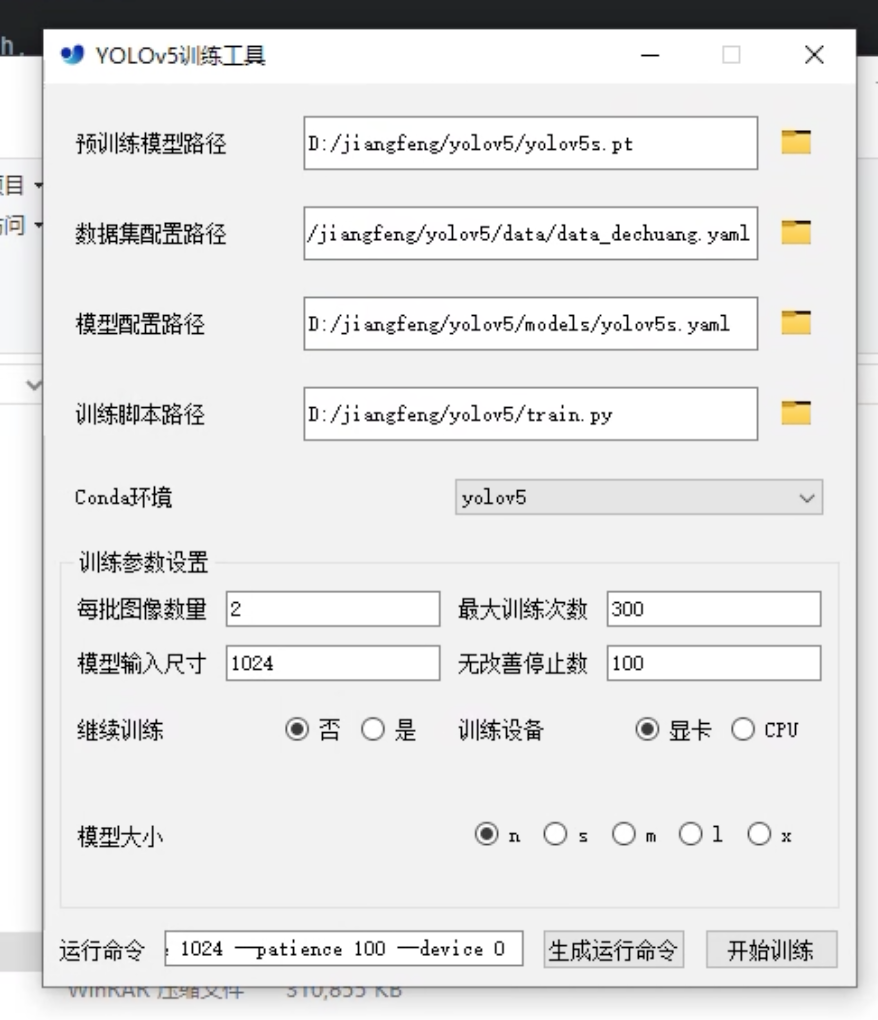
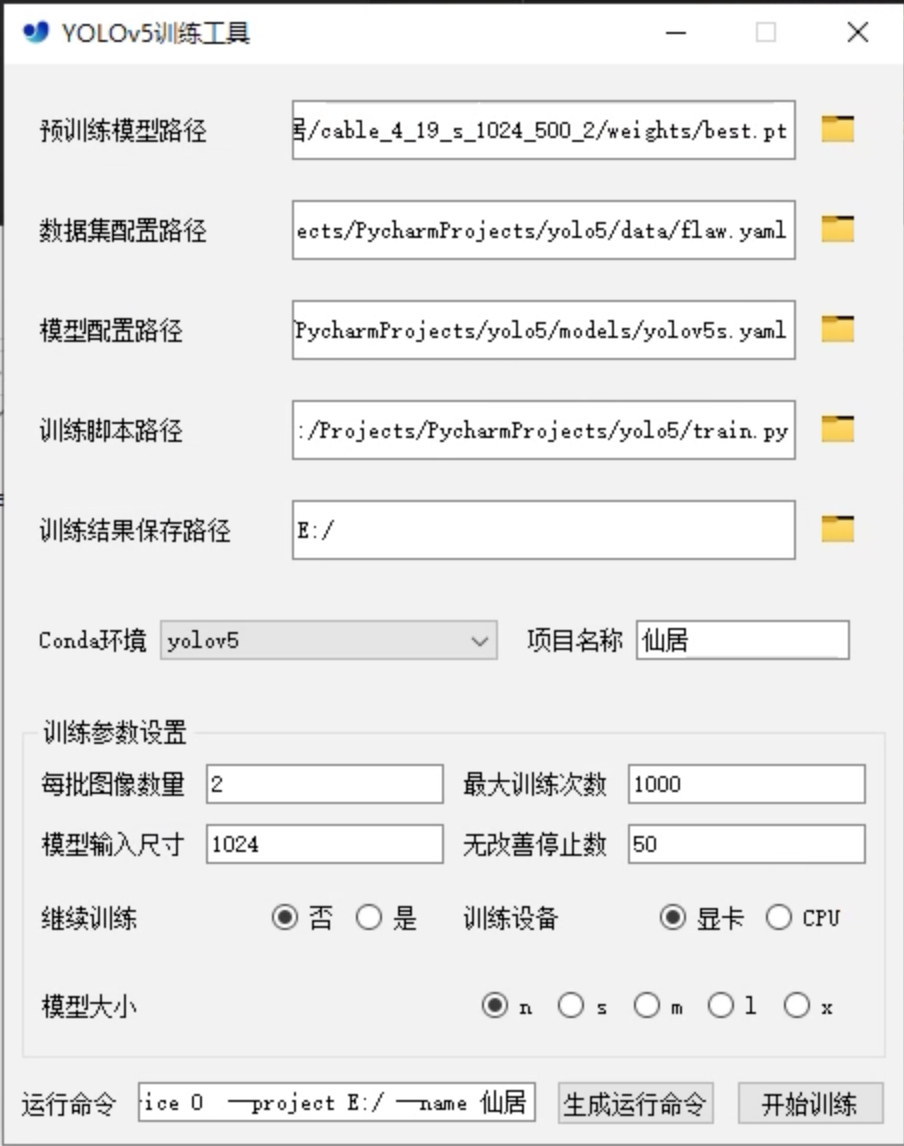
readme

diff --git a/main.py b/main.py
@@ -1,7 +1,7 @@
 from functools import lru_cache
 
 from PyQt5 import QtWidgets, QtGui
-from PyQt5.QtWidgets import QWidget, QLabel, QMainWindow, QHBoxLayout, QRadioButton, QComboBox
+from PyQt5.QtWidgets import QWidget, QLabel, QMainWindow, QHBoxLayout, QRadioButton, QComboBox, QLineEdit
 
 from libs.LineWidget import LineWidget
 from libs.model_size_selector import ModelSizeSelector
@@ -26,6 +26,7 @@ class MainWindow(QMainWindow):
                                           "YoloV5 Pretrained Model (%s)" % ' '.join(['*.pt']))
         self.train_py_line = LineWidget('训练脚本路径', self.settings.get('train_script_path'),
                                         "Python Script (%s)" % ' '.join(['*.py']))
+        self.save_dir_line = LineWidget('训练结果保存路径', self.settings.get('save_dir', os.path.expanduser('~')))
         # 创建一个横向布局，左边是文本，右边是一个下拉框，用于选择Conda环境
         self.conda_env_combobox = QComboBox(self)
         # 获取所有Conda环境
@@ -37,19 +38,47 @@ class MainWindow(QMainWindow):
         conda_env_hbox.addWidget(QLabel('Conda环境'))
         conda_env_hbox.addWidget(self.conda_env_combobox)
         self.conda_env_line = QWidget()
+        conda_env_hbox.setAlignment(QtCore.Qt.AlignLeft)
         self.conda_env_line.setLayout(conda_env_hbox)
+        
+        name_hbox = QHBoxLayout()
+        name_hbox.addWidget(QLabel('项目名称'))
+        self.name_line_edit = QLineEdit()
+        self.name_line = QWidget()
+        name_hbox.addWidget(self.name_line_edit)
+        self.name_line.setLayout(name_hbox)
+        self.name_line.setFixedHeight(40)
+       
+        conda_name_hbox = QHBoxLayout()
+        conda_env_hbox.addWidget(self.conda_env_line)
+        conda_env_hbox.addWidget(self.name_line)
+        conda_env_hbox.setAlignment(QtCore.Qt.AlignmentFlag.AlignTrailing)
+
+        self.name_line_edit.setText(self.settings.get('project_name', 'yolov5_project'))
+
+        self.conda_env_line.setFixedHeight(40)
+
+        self.conda_name_line = QWidget()
+        
+        self.conda_name_line.setLayout(conda_env_hbox)
+
+
         self.conda_env_line.setFixedHeight(40)
         self.conda_env_combobox.setCurrentText(self.settings.get('conda_env_name'))
         self.data_line.line_edit.setText(self.settings.get('data_config_path'))
         self.model_cfg_line.line_edit.setText(self.settings.get('model_config_path'))
         self.pretrained_line.line_edit.setText(self.settings.get('pretrained_model_path'))
         self.train_py_line.line_edit.setText(self.settings.get('train_script_path'))
+        self.save_dir_line.line_edit.setText(self.settings.get('save_dir', os.path.expanduser('~')))
         layout = QtWidgets.QVBoxLayout()
         layout.addWidget(self.pretrained_line)
         layout.addWidget(self.data_line)
         layout.addWidget(self.model_cfg_line)
         layout.addWidget(self.train_py_line)
-        layout.addWidget(self.conda_env_line)
+        layout.addWidget(self.save_dir_line)
+
+        layout.addWidget(self.conda_name_line)
+        
 
         layout.setSpacing(10)
 
@@ -112,19 +141,20 @@ class MainWindow(QMainWindow):
         widget.setLayout(layout)
         self.setCentralWidget(widget)
         self.setWindowTitle('YOLOv5训练工具')
-        self.setFixedSize(450, 500)
+        self.setFixedSize(450, 540)
+        self.generate_run_command()
 
     def generate_run_command(self):
         plus = '/bin/python' if sys.platform == 'darwin' else '/python.exe'
         env_path = self.envs[self.conda_env_combobox.currentIndex()][1] + plus
         train_script_path = self.train_py_line.line_edit.text()
 
-        run_command = '%s %s --data %s --cfg %s --weights %s --batch-size %s --epochs %s --img-size %s --patience %s --device %s %s' % (
+        run_command = '%s %s --data %s --cfg %s --weights %s --batch-size %s --epochs %s --img-size %s --patience %s --device %s %s --project %s --name %s' % (
             env_path, train_script_path, self.data_line.line_edit.text(),
             self.model_cfg_line.line_edit.text(),
             self.pretrained_line.line_edit.text(),
             self.batch_size_line.text(), self.epochs_line.text(), self.img_size_line.text(), self.patience_line.text(),
-            '0' if self.use_gpu_button.isChecked() else 'cpu', '' if self.not_resume_button.isChecked() else '--resume')
+            '0' if self.use_gpu_button.isChecked() else 'cpu', '' if self.not_resume_button.isChecked() else '--resume',self.save_dir_line.line_edit.text(),self.name_line_edit.text())
         self.run_command_line.setText(run_command)
 
     def start_training(self):
@@ -143,6 +173,8 @@ class MainWindow(QMainWindow):
         self.settings['device'] = self.use_gpu_button.isChecked()
         self.settings['conda_env_name'] = self.conda_env_combobox.currentText()
         self.settings['train_script_path'] = self.train_py_line.line_edit.text()
+        self.settings['save_dir'] = self.save_dir_line.line_edit.text()
+        self.settings['project_name'] = self.name_line_edit.text()
         self.settings.save()
 
 
